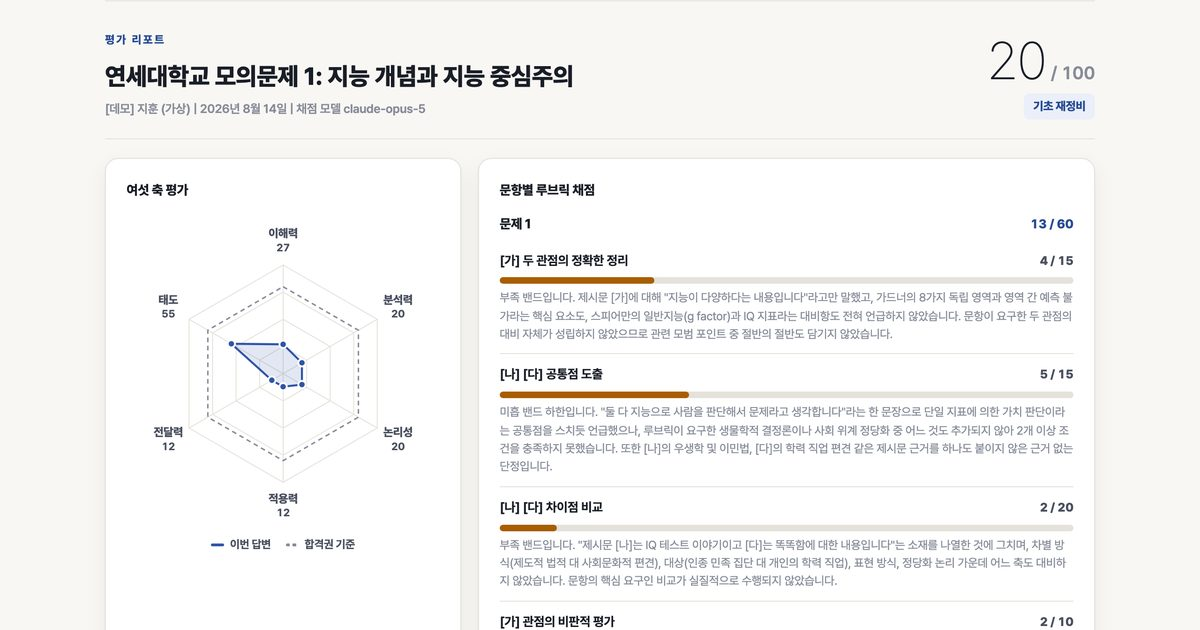
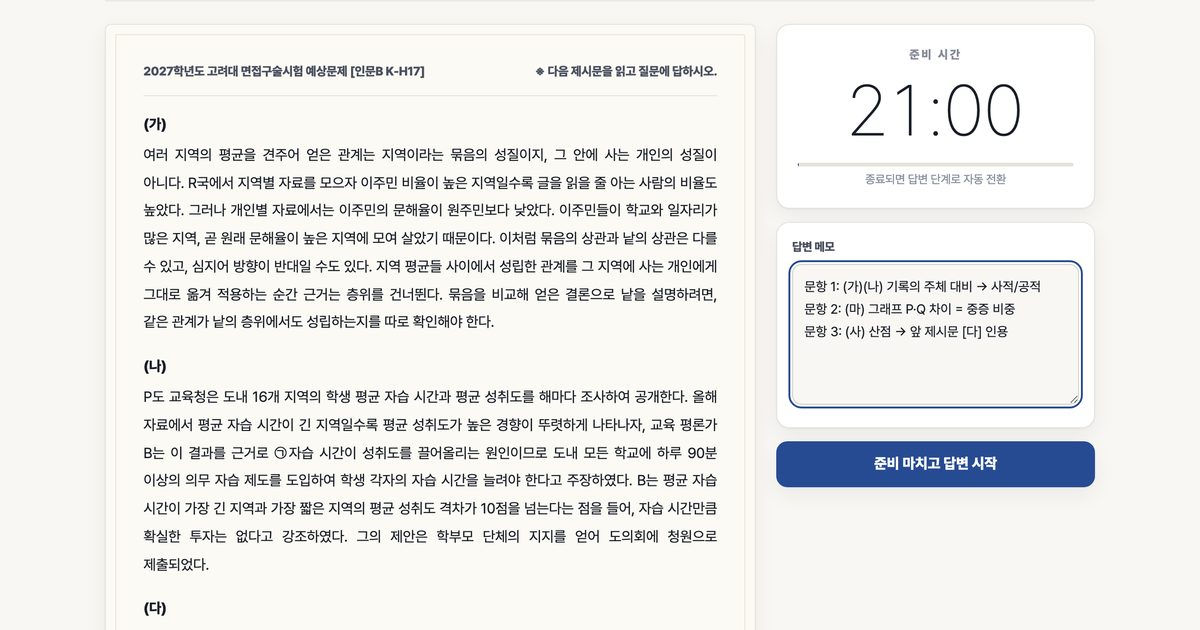
critic P1 수리: 홈 첫 화면(모바일 folio 숨김, 라벨 가격 병기, 일시정지 불투명, 4버튼 정렬) + 스튜디오 .tl 밑줄과 og 교체
- 홈: 390 에서 체험 응시 링크가 하단 고정 탭(779px)에 잘리던 것 → 히어로 folio 숨김 + 라벨 한 줄 + 간격 축소로 698~746. 1280 = h1 전폭 2줄, [4버튼 + 리드 | 영상 490~760], 4버튼 601~705. 라벨에 권당 33,000원 / 단위 전권 495,000원. 일시정지 버튼 배경 .92 불투명. 두 상품 그룹 subgrid 행 정렬
- 스튜디오: .tl 탭박스 hair 룰(글자에서 18px, 1.72:1) → 글자 밑줄 ink. 다섯 단계 카드 링크 신호 카드 바닥 정렬 13px. 문제 절 카드 테두리 .38. og = 준비 시간 화면(리포트 화면은 낙제 점수 20/100 이 지배 요소)
- 게이트: build_all 1회=2회 41e6f15482fcd1a3, overflow 0, nowrapOver 0, smallTap 0, 앵커 5/5

diff --git a/index.html b/index.html
@@ -58,21 +58,22 @@
 .book{grid-template-columns:1fr}
 @media (min-width:1000px){.page{padding-left:0}}
 .hero .herotop{display:grid;grid-template-columns:minmax(0,1fr);gap:var(--s5);align-items:start}
-@media (min-width:900px){.hero .herotop{grid-template-columns:minmax(0,1fr) minmax(0,1fr);gap:var(--s4) var(--s6);align-items:start}.hero .herohead{grid-column:1/-1}}
+@media (min-width:900px){.hero .herotop{grid-template-columns:minmax(0,1fr) minmax(0,1fr);gap:var(--s3) var(--s6);align-items:start}.hero .herohead{grid-column:1/-1}}
 @media (max-width:899.98px){.hero .herofilm{order:-1}}
 .hero .herofilm{margin:0;position:relative;background:var(--ink);border-radius:var(--r-md);overflow:hidden;box-shadow:0 18px 40px rgba(49,46,46,.18)}
 .hero .herofilm video{display:block;width:100%;aspect-ratio:16/9;object-fit:cover;background:var(--ink)}
-.hero .vpause{position:absolute;right:10px;bottom:10px;min-height:var(--tap);padding:0 14px;border:1px solid rgba(239,233,220,.6);border-radius:999px;background:rgba(49,46,46,.55);color:var(--paper);font:500 12px/1 var(--mono);cursor:pointer}
-.hero .vpause:hover{background:rgba(49,46,46,.85)}
+.hero .vpause{position:absolute;right:10px;bottom:10px;min-height:var(--tap);padding:0 14px;border:1px solid rgba(239,233,220,.6);border-radius:999px;background:rgba(49,46,46,.92);color:var(--paper);font:500 12px/1 var(--mono);cursor:pointer}
+.hero .vpause:hover{background:var(--ink)}
 .hero .vpause:focus-visible{outline:2px solid var(--paper);outline-offset:2px}
 .hero .vh{position:absolute;width:1px;height:1px;margin:-1px;padding:0;overflow:hidden;clip:rect(0 0 0 0);white-space:nowrap;border:0}
-.hero .prodcta{display:grid;grid-template-columns:1fr;gap:var(--s4);margin:var(--s4) 0;padding:var(--s4) 0;border-top:var(--rule);border-bottom:var(--rule)}
+.hero .prodcta{display:grid;grid-template-columns:1fr;gap:var(--s4);margin:var(--s3) 0 var(--s4);padding:var(--s4) 0;border-top:var(--rule);border-bottom:var(--rule)}
 @media (min-width:600px){.hero .prodcta{grid-template-columns:1fr 1fr}}
 .hero .prodcta .k{display:block;font-family:var(--mono);font-size:var(--t-xs);font-weight:500;letter-spacing:var(--tr-label);color:var(--gray);margin-bottom:var(--s2)}
 .hero .prodcta .bs{display:flex;flex-wrap:wrap;gap:var(--s2)}
 .hero .prodcta .tlink{margin-top:var(--s2)}
+@supports (grid-template-rows:subgrid){@media (min-width:600px){.hero .prodcta{grid-template-rows:repeat(3,auto)}.hero .prodcta .pc{display:grid;grid-template-rows:subgrid;grid-row:span 3;align-content:start}.hero .prodcta .k{align-self:end}}}
 @media (max-width:899.98px){.hero .herotop{gap:var(--s3)}.hero .herohead h1{margin-bottom:0}}
-@media (max-width:599.98px){.hero .prodcta{gap:var(--s3);margin:0 0 var(--s3);padding:var(--s3) 0}}
+@media (max-width:599.98px){.hero .prodcta{gap:var(--s3);margin:0 0 var(--s3);padding:var(--s3) 0}.hero .folio{display:none}.hero .prodcta .k br{display:none}.hero .prodcta .k .pr::before{content:", "}}
 </style>
 </head>
 <body class="v2">
@@ -126,11 +127,11 @@
     <div class="herosay">
       <div class="prodcta" aria-label="두 상품 바로 가기">
         <div class="pc">
-          <span class="k">서류기반면접 가이드북</span>
+          <span class="k">서류기반면접 가이드북<br><span class="pr">권당 33,000원</span></span>
           <div class="bs"><a class="btn" href="guidebook/index.html">가이드북 고르기 <span class="ar" aria-hidden="true">→</span></a><a class="btn ghost" href="programs/guidebook.html">지원대학 가이드북이란?</a></div>
         </div>
         <div class="pc">
-          <span class="k">제시문 면접 스튜디오</span>
+          <span class="k">제시문 면접 스튜디오<br><span class="pr">단위 전권 495,000원</span></span>
           <div class="bs"><a class="btn" href="studio.html#units">응시 단위 고르기 <span class="ar" aria-hidden="true">→</span></a><a class="btn ghost" href="programs/studio.html">면접 스튜디오란?</a></div>
           <a class="tlink" href="studio.html#trialGo" id="heroTrial">체험 응시 1회 시작 <span class="ar" aria-hidden="true">→</span></a>
         </div>

diff --git a/programs/studio.html b/programs/studio.html
@@ -76,7 +76,7 @@ p{max-width:var(--measure);color:var(--body)}
 .btn .arr{font-family:var(--mono);font-weight:400}
 .ink .btn{background:var(--paper);color:var(--ink)}
 .ink .btn:hover{background:var(--card)}
-.tl{display:inline-flex;align-items:center;min-height:var(--tap);gap:var(--s2);border-bottom:1px solid var(--hair);color:var(--ink);font-weight:500}
+.tl{display:inline-flex;align-items:center;gap:6px;min-height:48px;font-weight:600;font-size:var(--t-sm);color:var(--ink);text-decoration:underline;text-decoration-color:var(--ink);text-decoration-thickness:1px;text-underline-offset:5px}  /* 2026-09-03 critic P1: 탭박스 하단 hair 룰(글자에서 18px, 1.72:1) → 글자 밑줄(ink) */
 .ph{background:linear-gradient(135deg,var(--paper-2),var(--mat));display:grid;place-items:center;color:var(--gray);font-family:var(--mono);font-size:var(--t-sm);border:var(--rule)}
 .blk h3,.two h3{font-size:var(--t-sm);font-family:var(--mono);font-weight:500;letter-spacing:var(--tr-label);color:var(--gray);margin-bottom:var(--s3);padding-bottom:var(--s2);border-bottom:var(--rule)}
 .blk ul li{position:relative;padding-left:var(--s3);margin-bottom:var(--s2);line-height:1.6;color:var(--body)}
@@ -396,6 +396,11 @@ p{max-width:var(--measure);color:var(--body)}
 .part{scroll-margin-top:var(--s5)}
 @media (max-width:900px){.split.one .forms{grid-template-columns:repeat(2,minmax(0,1fr))}}
 @media (max-width:600px){.split.one .forms{grid-template-columns:1fr}}
+
+/* 2026-09-03 critic P2: 다섯 단계 카드 링크 신호를 카드 바닥에 정렬, 글자 13px. 문제 절 카드 테두리 대비 */
+.rail li a{display:flex;flex-direction:column;align-items:flex-start}
+.rail .go{margin-top:auto;padding-top:var(--s3);font-size:var(--t-sm)}
+.split.one .forms li{border-color:rgba(244,239,227,.38)}
 </style>
 </head>
 <body>

diff --git a/_design/studio_detail_20260903/build/page.css b/_design/studio_detail_20260903/build/page.css
@@ -49,7 +49,7 @@ p{max-width:var(--measure);color:var(--body)}
 .btn .arr{font-family:var(--mono);font-weight:400}
 .ink .btn{background:var(--paper);color:var(--ink)}
 .ink .btn:hover{background:var(--card)}
-.tl{display:inline-flex;align-items:center;min-height:var(--tap);gap:var(--s2);border-bottom:1px solid var(--hair);color:var(--ink);font-weight:500}
+.tl{display:inline-flex;align-items:center;gap:6px;min-height:48px;font-weight:600;font-size:var(--t-sm);color:var(--ink);text-decoration:underline;text-decoration-color:var(--ink);text-decoration-thickness:1px;text-underline-offset:5px}  /* 2026-09-03 critic P1: 탭박스 하단 hair 룰(글자에서 18px, 1.72:1) → 글자 밑줄(ink) */
 .ph{background:linear-gradient(135deg,var(--paper-2),var(--mat));display:grid;place-items:center;color:var(--gray);font-family:var(--mono);font-size:var(--t-sm);border:var(--rule)}
 .blk h3,.two h3{font-size:var(--t-sm);font-family:var(--mono);font-weight:500;letter-spacing:var(--tr-label);color:var(--gray);margin-bottom:var(--s3);padding-bottom:var(--s2);border-bottom:var(--rule)}
 .blk ul li{position:relative;padding-left:var(--s3);margin-bottom:var(--s2);line-height:1.6;color:var(--body)}
@@ -369,3 +369,8 @@ p{max-width:var(--measure);color:var(--body)}
 .part{scroll-margin-top:var(--s5)}
 @media (max-width:900px){.split.one .forms{grid-template-columns:repeat(2,minmax(0,1fr))}}
 @media (max-width:600px){.split.one .forms{grid-template-columns:1fr}}
+
+/* 2026-09-03 critic P2: 다섯 단계 카드 링크 신호를 카드 바닥에 정렬, 글자 13px. 문제 절 카드 테두리 대비 */
+.rail li a{display:flex;flex-direction:column;align-items:flex-start}
+.rail .go{margin-top:auto;padding-top:var(--s3);font-size:var(--t-sm)}
+.split.one .forms li{border-color:rgba(244,239,227,.38)}

diff --git a/_design/home_hero_20260903/apply_home.py b/_design/home_hero_20260903/apply_home.py
@@ -28,11 +28,11 @@ if m:
     <div class="herosay">
       <div class="prodcta" aria-label="두 상품 바로 가기">
         <div class="pc">
-          <span class="k">서류기반면접 가이드북</span>
+          <span class="k">서류기반면접 가이드북<br><span class="pr">권당 33,000원</span></span>
           <div class="bs"><a class="btn" href="guidebook/index.html">가이드북 고르기 <span class="ar" aria-hidden="true">→</span></a><a class="btn ghost" href="programs/guidebook.html">지원대학 가이드북이란?</a></div>
         </div>
         <div class="pc">
-          <span class="k">제시문 면접 스튜디오</span>
+          <span class="k">제시문 면접 스튜디오<br><span class="pr">단위 전권 495,000원</span></span>
           <div class="bs"><a class="btn" href="studio.html#units">응시 단위 고르기 <span class="ar" aria-hidden="true">→</span></a><a class="btn ghost" href="programs/studio.html">면접 스튜디오란?</a></div>
           <a class="tlink" href="studio.html#trialGo" id="heroTrial">체험 응시 1회 시작 <span class="ar" aria-hidden="true">→</span></a>
         </div>
@@ -56,21 +56,22 @@ CSS = '''/* 2026-09-03 건우 지시: 卷 레일 제거(단일 열), 히어로 =
 .book{grid-template-columns:1fr}
 @media (min-width:1000px){.page{padding-left:0}}
 .hero .herotop{display:grid;grid-template-columns:minmax(0,1fr);gap:var(--s5);align-items:start}
-@media (min-width:900px){.hero .herotop{grid-template-columns:minmax(0,1fr) minmax(0,1fr);gap:var(--s4) var(--s6);align-items:start}.hero .herohead{grid-column:1/-1}}
+@media (min-width:900px){.hero .herotop{grid-template-columns:minmax(0,1fr) minmax(0,1fr);gap:var(--s3) var(--s6);align-items:start}.hero .herohead{grid-column:1/-1}}
 @media (max-width:899.98px){.hero .herofilm{order:-1}}
 .hero .herofilm{margin:0;position:relative;background:var(--ink);border-radius:var(--r-md);overflow:hidden;box-shadow:0 18px 40px rgba(49,46,46,.18)}
 .hero .herofilm video{display:block;width:100%;aspect-ratio:16/9;object-fit:cover;background:var(--ink)}
-.hero .vpause{position:absolute;right:10px;bottom:10px;min-height:var(--tap);padding:0 14px;border:1px solid rgba(239,233,220,.6);border-radius:999px;background:rgba(49,46,46,.55);color:var(--paper);font:500 12px/1 var(--mono);cursor:pointer}
-.hero .vpause:hover{background:rgba(49,46,46,.85)}
+.hero .vpause{position:absolute;right:10px;bottom:10px;min-height:var(--tap);padding:0 14px;border:1px solid rgba(239,233,220,.6);border-radius:999px;background:rgba(49,46,46,.92);color:var(--paper);font:500 12px/1 var(--mono);cursor:pointer}
+.hero .vpause:hover{background:var(--ink)}
 .hero .vpause:focus-visible{outline:2px solid var(--paper);outline-offset:2px}
 .hero .vh{position:absolute;width:1px;height:1px;margin:-1px;padding:0;overflow:hidden;clip:rect(0 0 0 0);white-space:nowrap;border:0}
-.hero .prodcta{display:grid;grid-template-columns:1fr;gap:var(--s4);margin:var(--s4) 0;padding:var(--s4) 0;border-top:var(--rule);border-bottom:var(--rule)}
+.hero .prodcta{display:grid;grid-template-columns:1fr;gap:var(--s4);margin:var(--s3) 0 var(--s4);padding:var(--s4) 0;border-top:var(--rule);border-bottom:var(--rule)}
 @media (min-width:600px){.hero .prodcta{grid-template-columns:1fr 1fr}}
 .hero .prodcta .k{display:block;font-family:var(--mono);font-size:var(--t-xs);font-weight:500;letter-spacing:var(--tr-label);color:var(--gray);margin-bottom:var(--s2)}
 .hero .prodcta .bs{display:flex;flex-wrap:wrap;gap:var(--s2)}
 .hero .prodcta .tlink{margin-top:var(--s2)}
+@supports (grid-template-rows:subgrid){@media (min-width:600px){.hero .prodcta{grid-template-rows:repeat(3,auto)}.hero .prodcta .pc{display:grid;grid-template-rows:subgrid;grid-row:span 3;align-content:start}.hero .prodcta .k{align-self:end}}}
 @media (max-width:899.98px){.hero .herotop{gap:var(--s3)}.hero .herohead h1{margin-bottom:0}}
-@media (max-width:599.98px){.hero .prodcta{gap:var(--s3);margin:0 0 var(--s3);padding:var(--s3) 0}}
+@media (max-width:599.98px){.hero .prodcta{gap:var(--s3);margin:0 0 var(--s3);padding:var(--s3) 0}.hero .folio{display:none}.hero .prodcta .k br{display:none}.hero .prodcta .k .pr::before{content:", "}}
 '''
 n_css = 0
 if '.hero .herotop{' not in t:

diff --git a/_design/studio_detail_20260903/build/build_page.py b/_design/studio_detail_20260903/build/build_page.py
@@ -624,8 +624,8 @@ def main():
     assert '{{' not in h, [l for l in h.splitlines() if '{{' in l][:3]
     out = (SITE_ROOT / 'programs' / 'studio.html') if MODE == 'site' else OUT / OUTNAME
     if MODE == 'site':
-        # og:image 1200x630 = 리포트 실물 화면 상단(여섯 축 도형 + 문항 채점). AI 정물(std_desk) 대체, 2026-09-03 건우 지시
-        og = Image.open(SHOTS / 'report_korea.png').convert('RGB').crop((0, BAR, 2560, 1600))
+        # og:image 1200x630 = 준비 시간 실물 화면 상단(제시문 + 타이머). AI 정물(std_desk) 대체, 2026-09-03 건우 지시
+        og = Image.open(SHOTS / 'prep_korea.png').convert('RGB').crop((0, BAR, 2560, 1600))   # critic P2: 리포트 화면은 낙제 점수(20/100)가 지배 요소. 준비 시간 화면(제시문 + 21분 타이머)으로
         og = og.resize((1200, round(og.height * 1200 / og.width)), Image.LANCZOS).crop((0, 0, 1200, 630))
         og.save(SITE_ROOT / 'assets' / 'photo' / 'std' / 'std_og.jpg', 'JPEG', quality=82, optimize=True, progressive=True)
     out.write_text(h, encoding='utf-8')
